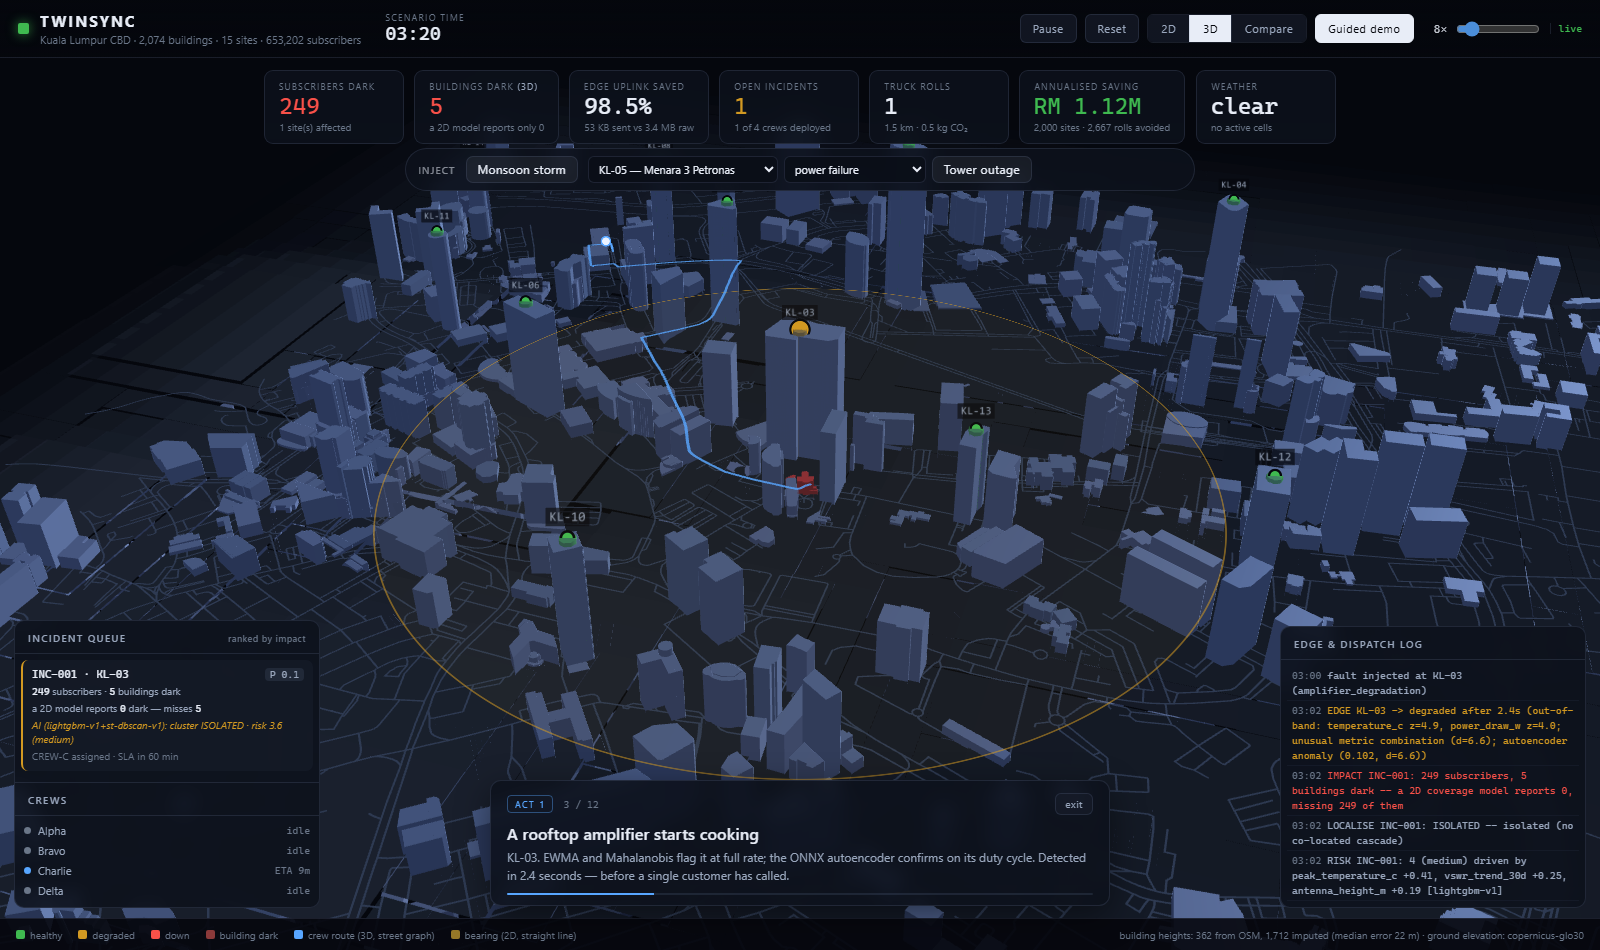
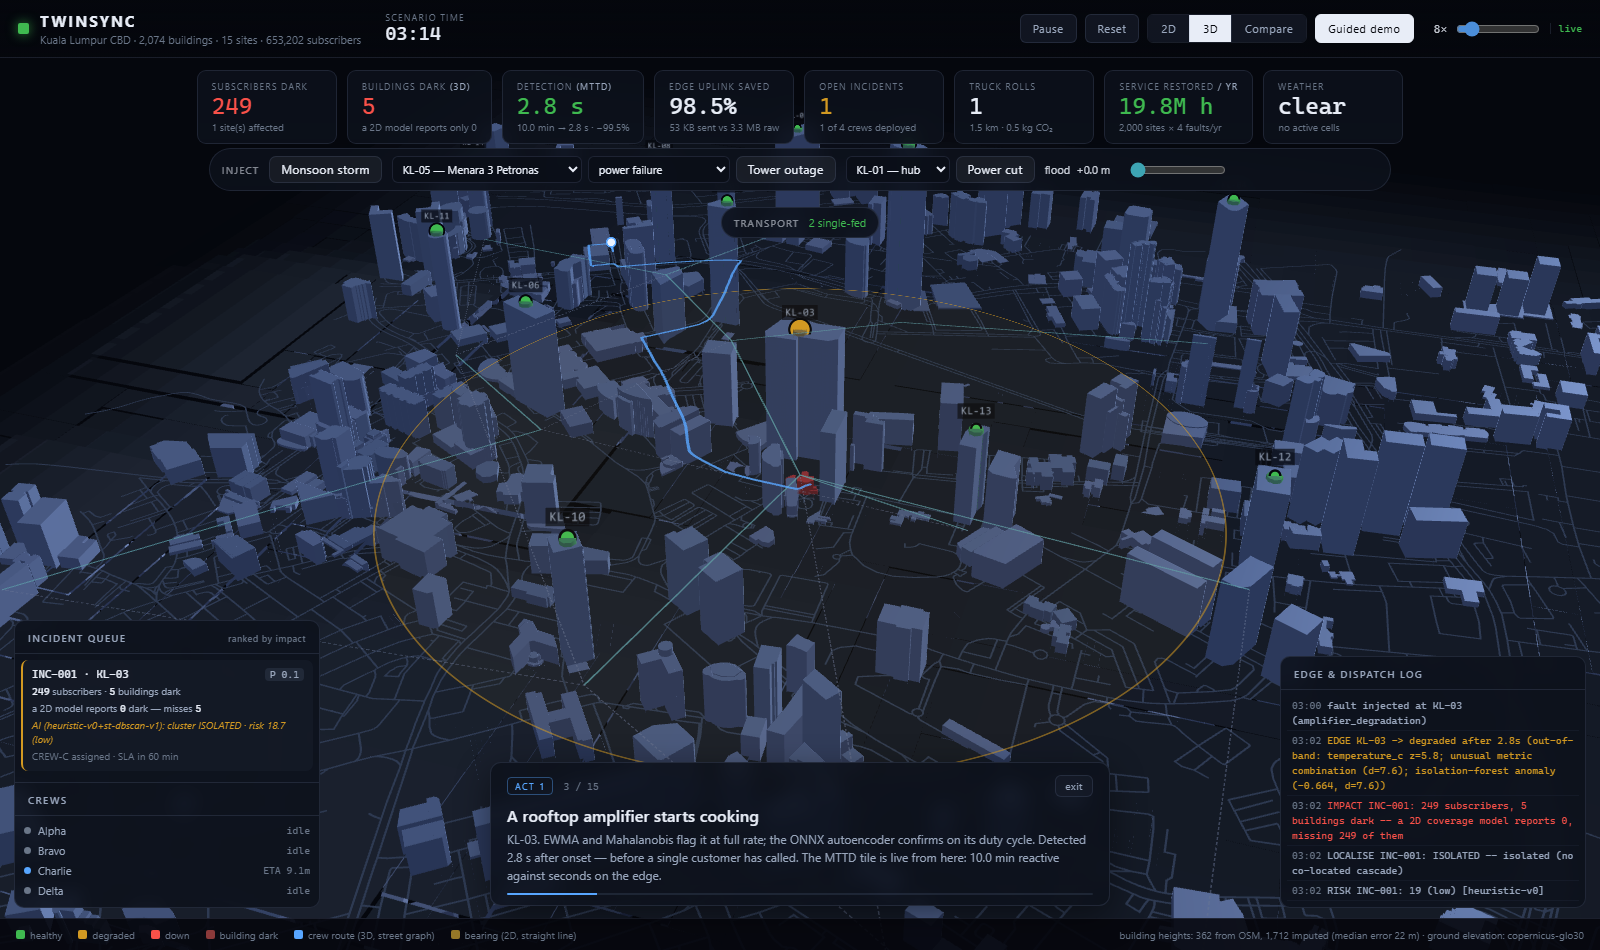
Update

diff --git a/web/app.js b/web/app.js
@@ -691,7 +691,7 @@ function riskFactorsHtml(towerId) {
          `<br><span style="font-size:11px;opacity:.8">SHAP: ${rows}</span>`;
 }
 
-/* The annualised saving, projected from the committed A/B run.
+/* Annualised service restored, projected from the committed A/B run.
  *
  * It cannot come off the WebSocket: the live server runs one dispatch arm, so there is
  * no baseline to compare against in-process. /api/metrics reads the headless A/B result

diff --git a/scripts/verify_ui.py b/scripts/verify_ui.py
@@ -108,10 +108,23 @@ def distinct_colours(png_bytes: bytes, sample: int = 40) -> int:
 # Beats the README embeds, under stable filenames. The beat files themselves are named
 # from their titles, so editing a caption would silently break every image link in the
 # README; these aliases are what the docs point at.
+#
+# Indices move whenever a beat is inserted into data/demo.json -- adding KL-07 and the
+# sixth act pushed the flood beat from 7 to 9 -- so the assertion below checks the title
+# rather than trusting the number, and fails loudly instead of quietly shipping the
+# wrong still into the README.
 README_SHOTS = {
     2: "readme-3d.png",         # a fault, seen against the extruded city
-    7: "readme-monsoon.png",    # DEM + storm + OSM repricing a route
-    11: "readme-compare.png",   # the money shot: all four sites down, 47 vs 3
+    9: "readme-monsoon.png",    # DEM + storm + OSM repricing a route
+    11: "readme-compare.png",   # the money shot: four sites down, 47 vs 3
+}
+
+# What each aliased beat must be about, as a substring of its title. A caption reword is
+# fine; a beat landing somewhere else entirely is not.
+README_SHOT_GUARDS = {
+    2: "amplifier",
+    9: "three sources",
+    11: "flat map never saw",
 }
 
 
@@ -188,6 +201,12 @@ def capture_beats(page) -> None:
         page.screenshot(path=str(OUT / name))
         alias = README_SHOTS.get(index)
         if alias:
+            want = README_SHOT_GUARDS.get(index, "")
+            if want and want not in beat["title"].lower():
+                errors.append(
+                    f"{alias} would be captured from beat {index} "
+                    f"({beat['title']!r}), which is not about {want!r} -- the demo track "
+                    f"changed, so README_SHOTS needs its indices updated")
             page.screenshot(path=str(OUT / alias))
         print(f"  {target:>5.0f}s  beat {active}  {name}"
               + (f"  -> {alias}" if alias else ""))

diff --git a/README.md b/README.md
@@ -51,7 +51,7 @@ model artifacts are committed. Conference wifi cannot break this demo.
 
 ```bash
 python -m twinsync.sim --scenario data/scenario.json --seed 42   # headless, both arms
-pytest tests/ -q                                                 # 175 tests
+pytest tests/ -q                                                 # 212 tests
 python scripts/verify_ui.py http://127.0.0.1:8000 shots/         # real browser
 ```
 
@@ -165,9 +165,12 @@ never once executed. The fault list is one longer than the fleet now, `reassignm
 saving. That is the honest exchange rate.
 
 **The two multipliers are the weakest part of this number, so the dashboard lets you
-change them.** Click the "annualised saving" tile and it cycles 2,000 → 5,000 → 10,000 →
-500 sites live; `GET /api/metrics?sites=5000&incidents_per_site=6` does the same over
-HTTP. The per-incident savings underneath are measured; only the scaling is assumed.
+change them.** Click the "service restored / yr" tile and it cycles 2,000 → 5,000 →
+10,000 → 500 sites live — 19.8M subscriber-hours becomes 49.4M and back;
+`GET /api/metrics?sites=5000&incidents_per_site=6` does the same over HTTP. The
+per-incident figure underneath is measured; only the scaling is assumed. The tile reports
+restored service rather than ringgit because, as the table above says, the truck-roll
+saving on this scenario is zero at every fleet size.
 
 **The 28 % MTTR gain is mostly detection, not repair**, because on-site repair time
 dominates and is identical in both arms — the ten minutes the baseline spends waiting
@@ -323,6 +326,24 @@ OSM. Imputed buildings are tinted differently in the UI so a guess never reads a
 **MTTR measured from detection made early detection worthless by construction.** An
 outage found after an hour and fixed in twenty minutes scored better than one caught
 instantly and fixed in twenty-five. The clock now starts when service broke.
+
+**Counting only repaired outages rewarded the arm that left work undone.**
+`subscriber_minutes_lost` summed resolved incidents only, so whichever arm actually
+reached the 53,399-subscriber site was billed for it and the arm that never got there was
+not. It stayed hidden while both arms happened to finish the same three jobs, and it
+inverted the entire A/B the moment the scenario got hard enough that they did not.
+Unrepaired outages now accrue to the end of the window, in both arms.
+
+**A baseline that freezes during a fault re-alarms the moment you repair the site.** Not
+learning during a fault is correct — otherwise the detector quietly accepts the fault as
+normal. But the frozen mean also holds whatever *environmental* offset was in force when
+the fault was detected, so a fault spanning a passing storm keeps a mean learned in 95
+mm/hr rain. Repair that site in dry air and its perfectly healthy telemetry sits several
+sigma out: it alarmed the instant the crew fixed it, raised a duplicate incident, and sent
+a second van. Repairs now re-seed the mean and re-warm (`EdgeDetector.relearn`). **Only**
+the mean — resetting the variance as well was the first attempt, and it traded one false
+incident for another, because at α=0.002 the variance needs hundreds of samples to
+reconverge and every z-score is inflated until it does.
 
 **Isolation Forest alone caused 18 false alarms per 2,000 samples.** `contamination=0.02`
 means it flags ~2 % of *normal* data by design. It is now calibrated against its own
